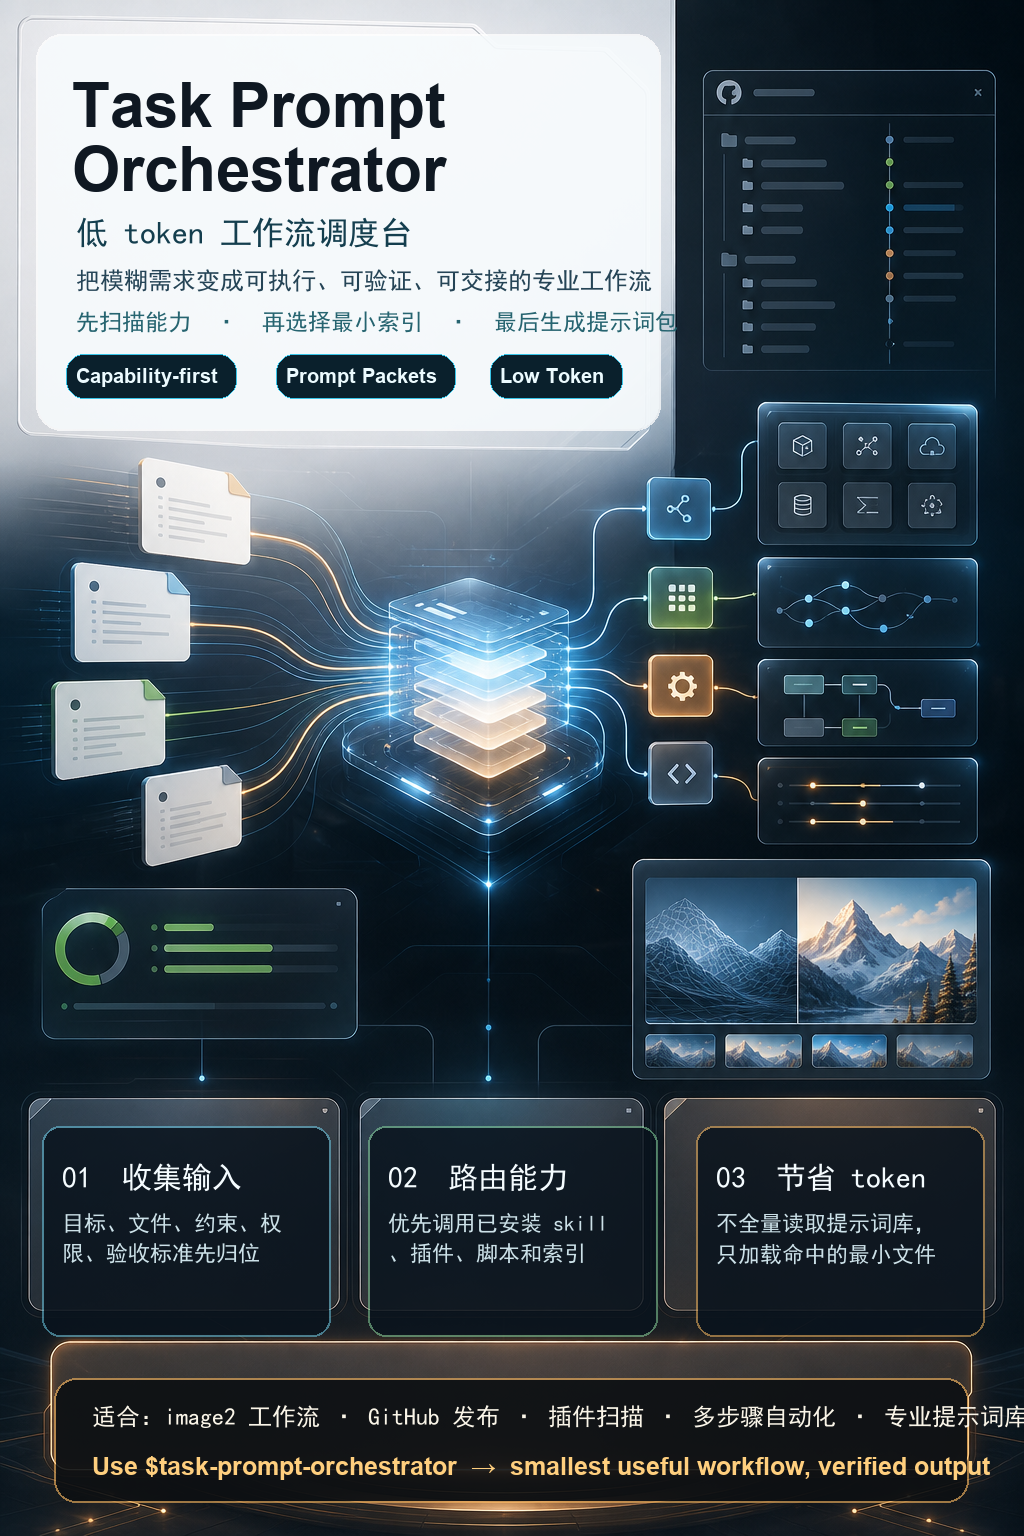
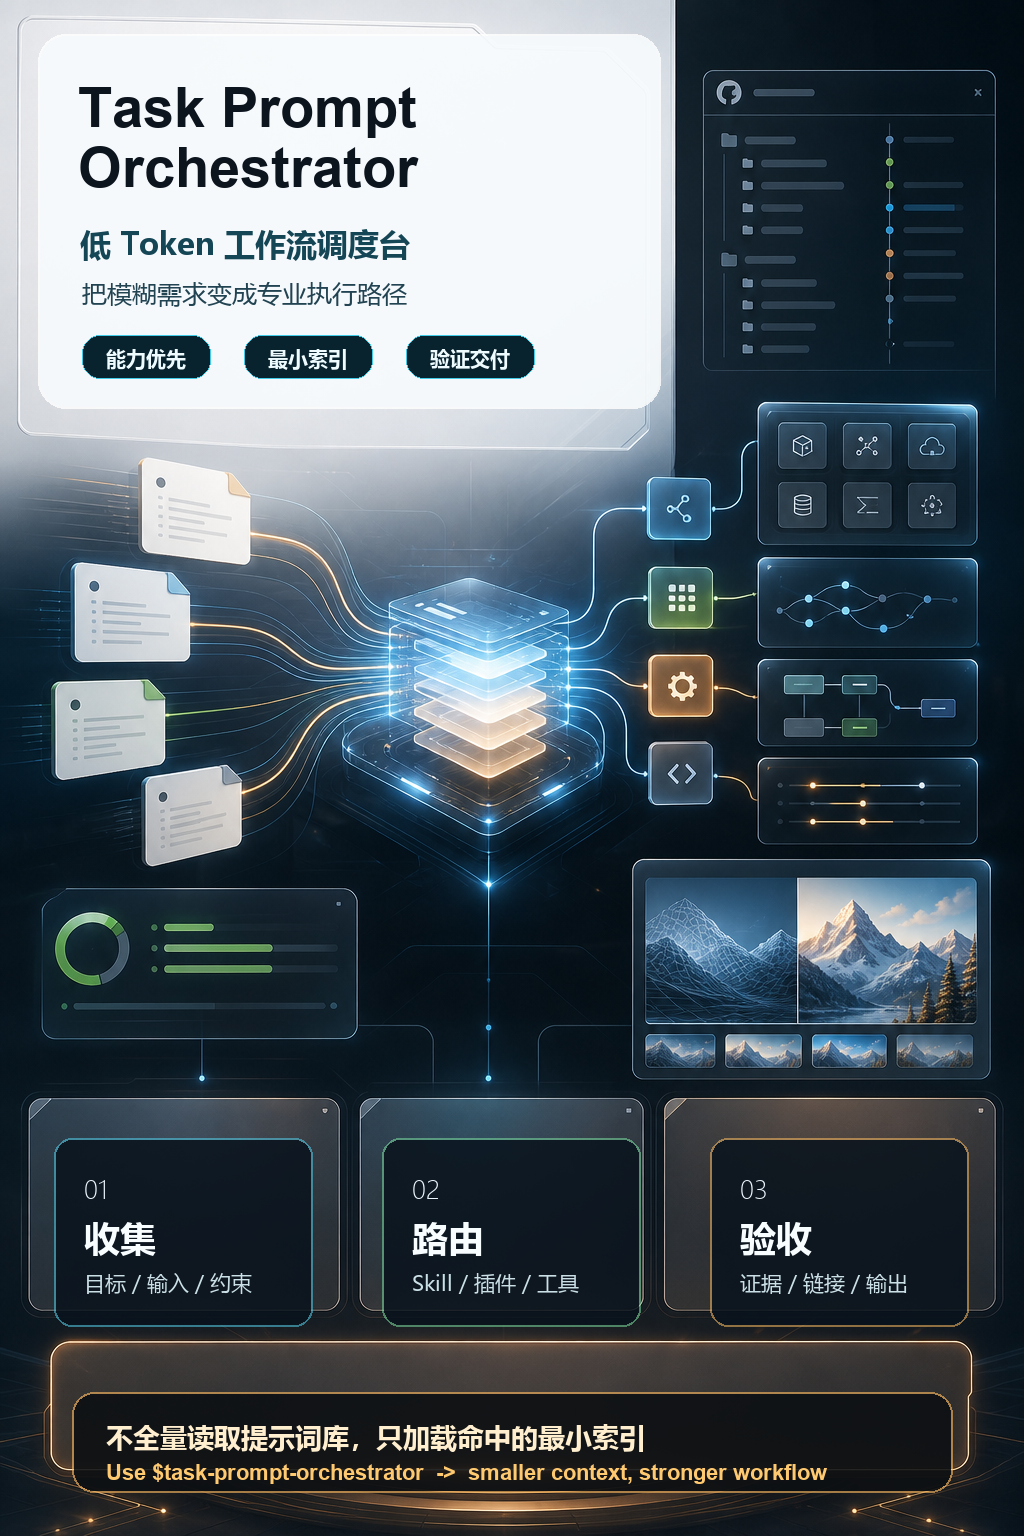
Refine promotional poster typography

Changed region(s): [[0.0312, 0.7188, 1.0, 1.0], [0.0312, 0.0312, 0.6562, 0.2812]]

diff --git a/promo/render_poster.py b/promo/render_poster.py
@@ -8,84 +8,72 @@ BASE = ROOT / "promo" / "task-prompt-orchestrator-poster-base.png"
 OUT = ROOT / "promo" / "task-prompt-orchestrator-poster-cn.png"
 
 
-def font(size: int, bold: bool = False) -> ImageFont.FreeTypeFont:
-    if bold:
-        arial_bold = Path(r"C:\Windows\Fonts\arialbd.ttf")
-        if arial_bold.exists():
-            return ImageFont.truetype(str(arial_bold), size)
-    simhei = Path(r"C:\Windows\Fonts\simhei.ttf")
-    return ImageFont.truetype(str(simhei), size)
+def font(size: int, weight: str = "regular") -> ImageFont.FreeTypeFont:
+    fonts = {
+        "light": Path(r"C:\Windows\Fonts\msyhl.ttc"),
+        "regular": Path(r"C:\Windows\Fonts\msyh.ttc"),
+        "bold": Path(r"C:\Windows\Fonts\msyhbd.ttc"),
+        "latin_bold": Path(r"C:\Windows\Fonts\arialbd.ttf"),
+    }
+    path = fonts.get(weight, fonts["regular"])
+    if not path.exists():
+        path = Path(r"C:\Windows\Fonts\simhei.ttf")
+    return ImageFont.truetype(str(path), size)
 
 
 def box(draw: ImageDraw.ImageDraw, xy, fill, outline=None, radius=24, width=2):
     draw.rounded_rectangle(xy, radius=radius, fill=fill, outline=outline, width=width)
 
 
-def wrap(text: str, draw: ImageDraw.ImageDraw, fnt: ImageFont.FreeTypeFont, max_width: int):
-    lines = []
-    for para in text.split("\n"):
-        line = ""
-        for ch in para:
-            test = line + ch
-            left, top, right, bottom = draw.textbbox((0, 0), test, font=fnt)
-            if right - left <= max_width or not line:
-                line = test
-            else:
-                lines.append(line)
-                line = ch
-        if line:
-            lines.append(line)
-    return lines
-
-
-def draw_text(draw, xy, value, fnt, fill, max_width=None, line_gap=8):
-    x, y = xy
-    lines = wrap(value, draw, fnt, max_width) if max_width else value.split("\n")
-    for line in lines:
-        draw.text((x, y), line, font=fnt, fill=fill)
-        left, top, right, bottom = draw.textbbox((x, y), line, font=fnt)
-        y += bottom - top + line_gap
-    return y
+def center_text(draw, box_xy, value, fnt, fill):
+    left, top, right, bottom = box_xy
+    bbox = draw.textbbox((0, 0), value, font=fnt)
+    tw = bbox[2] - bbox[0]
+    th = bbox[3] - bbox[1]
+    draw.text((left + (right - left - tw) / 2, top + (bottom - top - th) / 2 - 2), value, font=fnt, fill=fill)
 
 
 img = Image.open(BASE).convert("RGBA")
 overlay = Image.new("RGBA", img.size, (0, 0, 0, 0))
 d = ImageDraw.Draw(overlay)
 
-box(d, (36, 34, 660, 430), (246, 250, 252, 232), (255, 255, 255, 190), 26, 2)
-box(d, (42, 1126, 330, 1336), (8, 18, 28, 212), (119, 225, 255, 120), 18, 2)
-box(d, (368, 1126, 657, 1336), (8, 18, 28, 212), (148, 234, 171, 120), 18, 2)
-box(d, (696, 1126, 984, 1336), (8, 18, 28, 212), (255, 190, 98, 130), 18, 2)
-box(d, (54, 1378, 968, 1502), (12, 15, 18, 230), (255, 187, 96, 150), 22, 2)
+# Calm, premium reading zones over the generated KV.
+box(d, (38, 34, 660, 408), (246, 250, 252, 236), (255, 255, 255, 205), 28, 2)
+box(d, (54, 1138, 312, 1326), (8, 18, 28, 218), (83, 211, 239, 135), 18, 2)
+box(d, (382, 1138, 640, 1326), (8, 18, 28, 218), (128, 232, 166, 130), 18, 2)
+box(d, (710, 1138, 968, 1326), (8, 18, 28, 218), (255, 190, 98, 135), 18, 2)
+box(d, (72, 1392, 952, 1492), (12, 15, 18, 228), (255, 187, 96, 155), 22, 2)
 
 img = Image.alpha_composite(img, overlay)
 d = ImageDraw.Draw(img)
 
-# Header.
-d.text((72, 70), "Task Prompt", font=font(62, True), fill=(15, 24, 34, 255))
-d.text((72, 134), "Orchestrator", font=font(62, True), fill=(15, 24, 34, 255))
-d.text((76, 216), "低 token 工作流调度台", font=font(32), fill=(20, 62, 78, 255))
-d.text((76, 268), "把模糊需求变成可执行、可验证、可交接的专业工作流", font=font(24), fill=(37, 68, 86, 255))
-d.text((76, 310), "先扫描能力  ·  再选择最小索引  ·  最后生成提示词包", font=font(23), fill=(38, 100, 112, 255))
+# Header: fewer words, stronger hierarchy.
+d.text((78, 76), "Task Prompt", font=font(56, "latin_bold"), fill=(12, 20, 30, 255))
+d.text((78, 136), "Orchestrator", font=font(56, "latin_bold"), fill=(12, 20, 30, 255))
+d.text((80, 222), "低 Token 工作流调度台", font=font(31, "bold"), fill=(20, 70, 86, 255))
+d.text((82, 276), "把模糊需求变成专业执行路径", font=font(25, "regular"), fill=(34, 67, 82, 255))
 
-for label, x in [("Capability-first", 76), ("Prompt Packets", 286), ("Low Token", 500)]:
-    left, top, right, bottom = d.textbbox((0, 0), label, font=font(20, True))
-    box(d, (x - 10, 354, x + right - left + 18, 398), (10, 32, 44, 230), (57, 197, 232, 180), 18, 1)
-    d.text((x, 364), label, font=font(20, True), fill=(236, 251, 255, 255))
+# Minimal chips.
+chips = [("能力优先", 82), ("最小索引", 244), ("验证交付", 406)]
+for label, x in chips:
+    chip = (x, 335, x + 128, 378)
+    box(d, chip, (8, 34, 46, 238), (67, 204, 232, 150), 18, 1)
+    center_text(d, chip, label, font(20, "bold"), (238, 252, 255, 255))
 
-# Feature cards.
-features = [
-    ("01  收集输入", "目标、文件、约束、权限、验收标准先归位"),
-    ("02  路由能力", "优先调用已安装 skill、插件、脚本和索引"),
-    ("03  节省 token", "不全量读取提示词库，只加载命中的最小文件"),
+# Three polished cards, intentionally short.
+cards = [
+    ("01", "收集", "目标 / 输入 / 约束"),
+    ("02", "路由", "Skill / 插件 / 工具"),
+    ("03", "验收", "证据 / 链接 / 输出"),
 ]
-for (title, body), x in zip(features, [62, 388, 716]):
-    d.text((x, 1162), title, font=font(30), fill=(245, 252, 255, 255))
-    draw_text(d, (x, 1212), body, font(22), (204, 225, 232, 255), max_width=230, line_gap=8)
+for (num, title, desc), x in zip(cards, [84, 412, 740]):
+    d.text((x, 1172), num, font=font(25, "light"), fill=(234, 244, 250, 230))
+    d.text((x, 1212), title, font=font(36, "bold"), fill=(248, 253, 255, 255))
+    d.text((x, 1268), desc, font=font(21, "regular"), fill=(202, 223, 230, 245))
 
-# CTA.
-d.text((92, 1404), "适合：image2 工作流 · GitHub 发布 · 插件扫描 · 多步骤自动化 · 专业提示词库路由", font=font(24), fill=(250, 245, 232, 255))
-d.text((92, 1452), "Use $task-prompt-orchestrator  →  smallest useful workflow, verified output", font=font(25, True), fill=(255, 207, 126, 255))
+# Bottom promise: one focused message.
+d.text((106, 1418), "不全量读取提示词库，只加载命中的最小索引", font=font(27, "bold"), fill=(255, 239, 207, 255))
+d.text((106, 1460), "Use $task-prompt-orchestrator  ->  smaller context, stronger workflow", font=font(22, "latin_bold"), fill=(255, 201, 112, 255))
 
-img.convert("RGB").save(OUT, quality=94)
+img.convert("RGB").save(OUT, quality=95)
 print(OUT)

diff --git a/promo/poster_prompt.md b/promo/poster_prompt.md
@@ -27,19 +27,22 @@ Constraints: no readable text, no random characters, no brand logos, no QR code,
 
 ```text
 Task Prompt Orchestrator
-低 token 工作流调度台
-把模糊需求变成可执行、可验证、可交接的专业工作流
-先扫描能力 · 再选择最小索引 · 最后生成提示词包
+低 Token 工作流调度台
+把模糊需求变成专业执行路径
 
-01 收集输入
-目标、文件、约束、权限、验收标准先归位
+能力优先
+最小索引
+验证交付
 
-02 路由能力
-优先调用已安装 skill、插件、脚本和索引
+01 收集
+目标 / 输入 / 约束
 
-03 节省 token
-不全量读取提示词库，只加载命中的最小文件
+02 路由
+Skill / 插件 / 工具
 
-适合：image2 工作流 · GitHub 发布 · 插件扫描 · 多步骤自动化 · 专业提示词库路由
-Use $task-prompt-orchestrator → smallest useful workflow, verified output
+03 验收
+证据 / 链接 / 输出
+
+不全量读取提示词库，只加载命中的最小索引
+Use $task-prompt-orchestrator -> smaller context, stronger workflow
 ```

diff --git a/RELEASE_NOTES.md b/RELEASE_NOTES.md
@@ -9,6 +9,7 @@
 - Expanded `references/chinese_introduction.md` into a richer Chinese product-style guide with use cases, examples, implementation details, and a stronger low-token promise.
 - Added `promo/task-prompt-orchestrator-poster-cn.png`, generated through the image2 poster/KV workflow and locally typeset with real Chinese copy.
 - Added `promo/poster_prompt.md` and `promo/render_poster.py` so the poster prompt and local typography process are reproducible.
+- Refined the promotional poster typography to reduce text density, improve hierarchy, and make the poster more suitable for user-facing presentation.
 - Updated `agents/openai.yaml`:
   - `short_description`: `Collect task inputs and route expert workflows.`
   - `default_prompt`: asks for goal, inputs, constraints, available skills/plugins, and acceptance checks before routing.